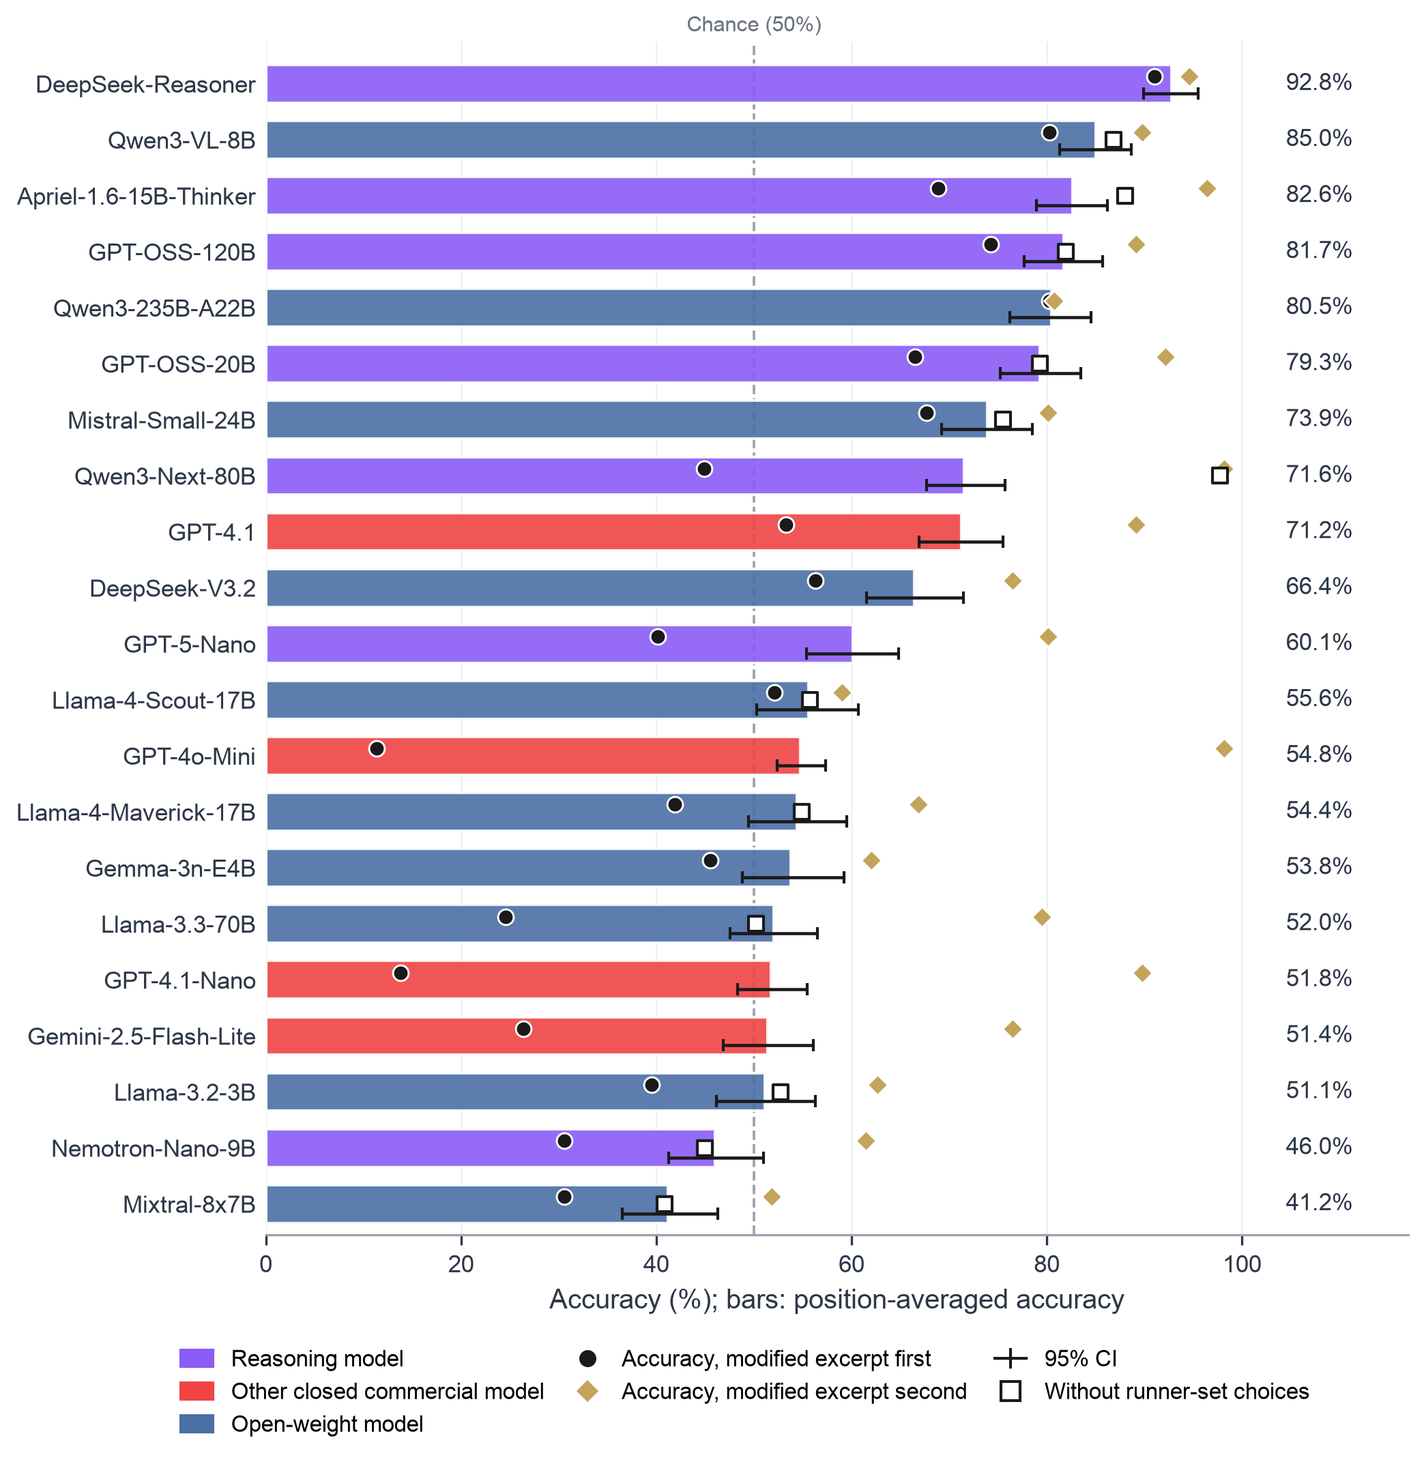
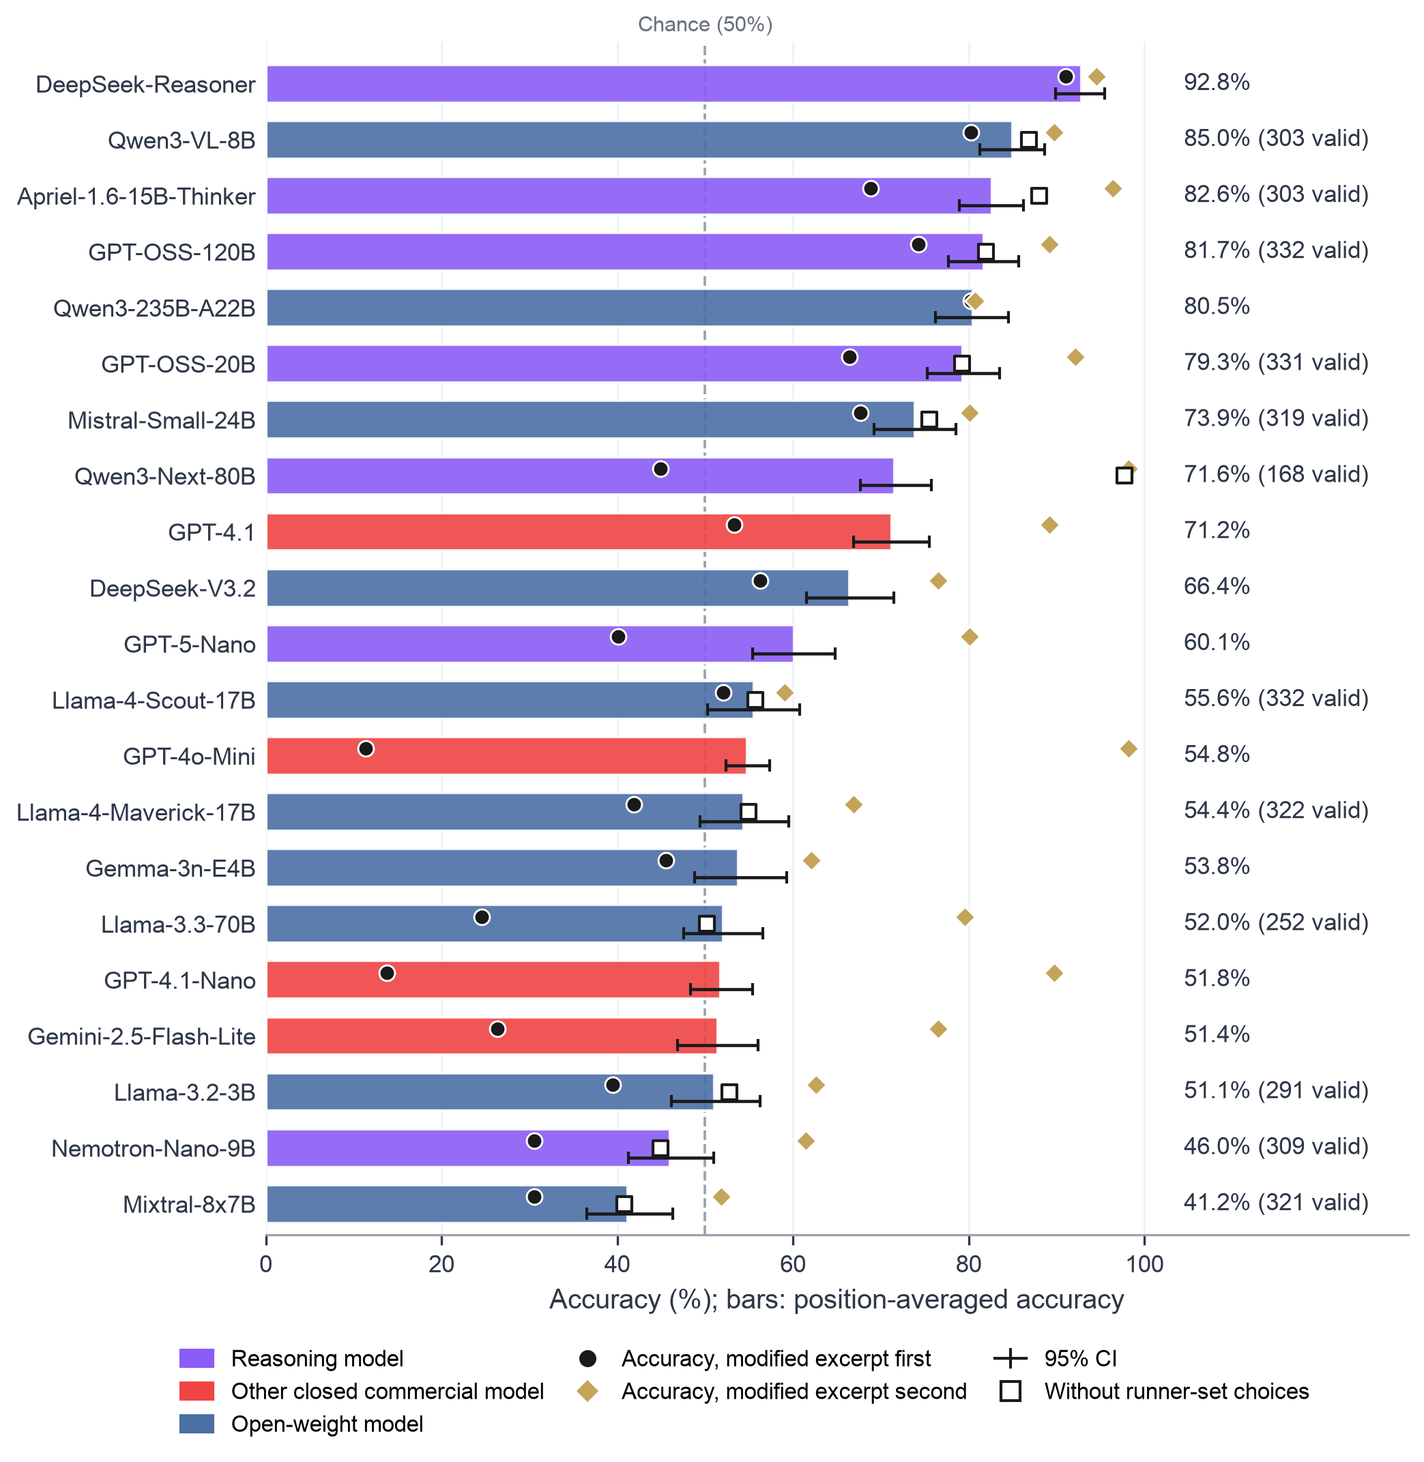
Add clinically evaluable subset without fabricated_citation, distinct excerpts, Figure 4 valid-reply labels and caveat, corrected data-file roles

diff --git a/r2/data_files_doc.py b/r2/data_files_doc.py
@@ -13,6 +13,15 @@ import subprocess
 
 from r2.paths import REPO
 
+def _evaluable_role(lead):
+    from r2.analysis.clinically_evaluable import TIERS
+    return (f"{lead} for {len(TIERS)} subsets of the 333 analyzed pairs defined by both physicians' answers: Q4, Q2 and "
+            "Q7 each; all three (clinically evaluable); the clinically evaluable pairs with Q3 Y or P, and with Q3 Y "
+            "(consensus where they disagreed); and the clinically evaluable pairs without the fabricated_citation "
+            "pairs (cue-confounded DOI), plus the number of distinct authentic excerpts per subset. A subset whose "
+            "records cover only one modified-excerpt position is marked not estimable. Post hoc")
+
+
 DIRS = ["data", "audit", "verification", "analysis_original", "analysis_repeated"]
 FILES = ["docs/r2/vignette_generation_prompt.md", "docs/r2/FREEZE_RECORD.md"]  # single tracked files outside DIRS
 OUT = REPO / "docs" / "DATA_FILES.md"
@@ -206,14 +215,16 @@ RULES = [
     (r"analysis_original/confidence_discriminable_excluding_coerced\.csv$", "`python -m r2.analysis.original_corrected` (`r2.analysis.confidence_original`)", "analysis of the original runs (confidence, R1 definitions)",
      lambda path: f"Per model ({_nrows(path)} models), the non-identical pairs without the records whose choice the original runner set to A (their confidence was written by the runner, 0.5, or belongs to an answer the runner replaced): the columns of `confidence_discriminable.csv`, with the per-model Mann-Whitney U, BH FDR and higher confidence when correct recomputed, plus n_runner_set_removed"),
     (r"analysis_original/per_model_discriminable_excluding_coerced\.csv$", "`python -m r2.analysis.original_corrected`", "analysis of the original runs (per model without runner-set choices)",
-     lambda path: f"Per model ({_nrows(path)} models), the non-identical pairs: evaluations, those whose choice the original runner set to A (n_runner_set), valid evaluations and their share, and position-averaged accuracy and accuracy by modified-excerpt position as recorded and without the runner-set records (`_valid`), with case-cluster bootstrap CIs and the valid n per position. The records left are the replies the runner could parse, a selected subset, not a random sample"),
-    (r"analysis_original/clinically_evaluable\.(json|csv)$", "`python -m r2.analysis.clinically_evaluable`",
+     lambda path: f"Per model ({_nrows(path)} models), the non-identical pairs: evaluations, those whose choice the original runner set to A (n_runner_set), valid evaluations and their share, and position-averaged accuracy and accuracy by modified-excerpt position as recorded and without the runner-set records (`_valid`), with case-cluster bootstrap CIs and the valid n per position. The records left are the replies with a valid A or B choice, a selected subset, not a random sample"),
+    (r"analysis_original/clinically_evaluable\.json$", "`python -m r2.analysis.clinically_evaluable`",
      "analysis of the original runs (clinically evaluable pairs; post hoc sensitivity analysis)",
-     "Pooled measures (accuracy, primacy, accuracy by modified-excerpt position, position-averaged accuracy, with "
-     "case-cluster bootstrap CIs, also without the runner-set records) for six subsets of the 333 analyzed pairs "
-     "defined by both physicians' answers: Q4, Q2 and Q7 each; all three (clinically evaluable); and the clinically "
-     "evaluable pairs with Q3 Y or P, and with Q3 Y (consensus where they disagreed). A subset whose records cover "
-     "only one modified-excerpt position is marked not estimable. Post hoc"),
+     lambda path: _evaluable_role("Pooled measures (accuracy, primacy, accuracy by modified-excerpt position, "
+                                  "position-averaged accuracy, with case-cluster bootstrap CIs, also without the "
+                                  "runner-set records)")),
+    (r"analysis_original/clinically_evaluable\.csv$", "`python -m r2.analysis.clinically_evaluable`",
+     "analysis of the original runs (clinically evaluable pairs; post hoc sensitivity analysis)",
+     lambda path: _evaluable_role("The tier counts and measures only (no case ids, no runner-set-excluded measures: "
+                                  "the JSON has them)")),
     (r"analysis_original/table1_examples\.csv$", "`python -m r2.analysis.original_corrected` (`table1_examples`)", "Table 1 (exclusion-only reanalysis)",
      lambda path: f"Example original responses, {_nrows(path)} rows: for each sham type with non-identical pairs, a failure and a success, each the first record in (case_id, model) order, among the records whose choice the runner did not coerce, whose model is not yet in the table (else the first in that order); the rationale cut at 300 characters; fabricated_citation rows marked cue-confounded. Rule: `r2/analysis/original_corrected.py` docstring"),
     (r"analysis_original/figures/legend_Figure\d\.md$", "`python -m r2.analysis.figures_original`", "Figures 2-4 (exclusion-only reanalysis)",

diff --git a/r2/analysis/clinically_evaluable.py b/r2/analysis/clinically_evaluable.py
@@ -6,6 +6,7 @@ excludes no pair from the primary analysis. Q3 is the shared answer where A.G. a
     python -m r2.analysis.clinically_evaluable
 """
 import json
+from pathlib import Path
 
 import pandas as pd
 
@@ -22,7 +23,15 @@ TIERS = (
                              "source (Q3 Y or P; consensus where the physicians disagreed)"),
     ("evaluable_concordant_full", "clinically evaluable, with the authentic excerpt fully concordant with its source "
                                   "(Q3 Y; consensus where the physicians disagreed)"),
+    ("evaluable_excluding_fabricated_citation", "clinically evaluable, without the fabricated_citation pairs, whose "
+                                                "modified excerpts carried a cue-confounded DOI"),
 )
+AUDIT_CSV = Path(__file__).resolve().parents[2] / "audit" / "pair_audit.csv"
+
+
+def load_excerpt_hashes(path=AUDIT_CSV):
+    """case_id -> hash of the authentic excerpt (T) from the pair audit."""
+    return pd.read_csv(path, dtype=str).set_index("case_id")["t_excerpt_hash"]
 
 
 def load_consensus(path=CONSENSUS_CSV):
@@ -51,16 +60,20 @@ def tier_case_ids(pairs, consensus):
     ids = {k: sorted(m[m].index) for k, m in masks.items()}
     ids["evaluable_concordant"] = sorted(q3[q3.isin(("Y", "P"))].index)
     ids["evaluable_concordant_full"] = sorted(q3[q3 == "Y"].index)
+    ids["evaluable_excluding_fabricated_citation"] = [c for c in ids["evaluable"]
+                                                      if pairs.loc[c, "sham_type"] != "fabricated_citation"]
     return ids
 
 
-def summarize(sub):
-    """Counts and, when both positions have a pair, the pooled measures with case-cluster bootstrap CIs."""
+def summarize(sub, hashes=None):
+    """Counts (with the distinct authentic excerpts when `hashes` maps case_id to excerpt hash) and, when both positions have a pair, the pooled measures with case-cluster bootstrap CIs."""
     n_first = int(sub[sub.sham_first].case_id.nunique())
     n_second = int(sub[~sub.sham_first].case_id.nunique())
     out = {"n_pairs": int(sub.case_id.nunique()), "n": int(len(sub)), "n_pairs_sham_first": n_first,
            "n_pairs_sham_second": n_second, "n_coerced": int(sub.coerced.sum()),
            "estimable": bool(n_first and n_second)}
+    if hashes is not None:
+        out["n_distinct_authentic_excerpts"] = int(hashes.reindex(sub.case_id.unique()).nunique())
     if out["estimable"]:
         out.update({k: float(v) for k, v in oc._measures(sub).items()})
         out["primacy"] = float(sub.selected_first.mean())
@@ -75,13 +88,14 @@ def summarize(sub):
     return out
 
 
-def run(write=True, pairs=None, consensus=None):
+def run(write=True, pairs=None, consensus=None, hashes=None):
     pairs = load_pairs() if pairs is None else pairs
     consensus = load_consensus() if consensus is None else consensus
     df = oc.original_frame()
     disc = df[df.visible_status != "identical"]
     if set(disc.case_id) != set(pairs.index):
         raise ValueError("the physician-review pairs differ from the analysis set")
+    hashes = load_excerpt_hashes() if hashes is None else hashes
     ids = tier_case_ids(pairs, consensus)
     ev = pairs[evaluable_mask(pairs)]
     d = discordant_q3(pairs)
@@ -90,7 +104,7 @@ def run(write=True, pairs=None, consensus=None):
     out = {"label": "post hoc; exploratory",
            "note": "Restricts the 333 analyzed pairs by the round-1 physician review; the primary analysis is "
                    "unchanged and the review excludes no pair.",
-           "tiers": {name: {"definition": desc, **summarize(disc[disc.case_id.isin(ids[name])]),
+           "tiers": {name: {"definition": desc, **summarize(disc[disc.case_id.isin(ids[name])], hashes),
                             "case_ids": ids[name]} for name, desc in TIERS},
            "q3_consensus": {"n_evaluable": int(len(ev)), "n_agreed": int(len(agreed)), "n_discordant": int(len(d)),
                             "agreed": {v: int((agreed == v).sum()) for v in Q3_VALUES},

diff --git a/tests/r2/test_figures.py b/tests/r2/test_figures.py
@@ -139,3 +139,38 @@ def test_figure4_open_squares_only_for_models_with_runner_set_records():
     fig = F.draw_figure4(per_model, load_specs(), without_runner_set=wr)
     squares = [c for c in fig.axes[0].collections if getattr(c, "get_label", lambda: "")() == "without_runner_set"]
     assert len(squares) == 1 and len(squares[0].get_offsets()) == 12
+
+
+def test_figure4_labels_give_valid_replies_for_runner_set_models_and_do_not_clip():
+    import matplotlib
+    matplotlib.use("Agg")
+    from r2.analysis import figures as F
+    from r2.analysis import figures_original as FO
+    from r2.run.harness import load_specs
+    head, per_model, per_type, by_profile, wr = FO.load()
+    fig = F.draw_figure4(per_model, load_specs(), without_runner_set=wr)
+    texts = [t.get_text() for t in fig.axes[0].texts]
+    labelled = [t for t in texts if "valid)" in t]
+    assert len(labelled) == 12 and all(t.endswith(" valid)") for t in labelled)
+    n_valid = {int(float(r["n_valid"])) for r in wr if int(float(r["n_runner_set"])) > 0}
+    assert {int(t.split("(")[1].split()[0]) for t in labelled} == n_valid
+    assert sum(t.endswith("%") for t in texts) == len(per_model) - 12
+    fig.canvas.draw()
+    ax_box = fig.axes[0].get_window_extent()
+    for t in fig.axes[0].texts:
+        assert t.get_window_extent().x1 <= fig.bbox.x1
+
+
+def test_squares_sentence_is_computed_and_states_the_conditional_caveat():
+    from r2.analysis import figures_original as FO
+    head, per_model, per_type, by_profile, wr = FO.load()
+    s = FO._squares_sentence(wr)
+    rows = [r for r in wr if int(float(r["n_runner_set"])) > 0]
+    top = max(rows, key=lambda r: int(float(r["n_runner_set"])))
+    assert s.startswith("Open squares: position-averaged accuracy among only the evaluations with a valid A or B reply, "
+                        f"for the {len(rows)} models whose choice the original runner set to A in some evaluations; "
+                        "the label gives each one's valid replies (Supplementary Table S9, Part D). ")
+    assert f"these were {int(float(top['n_valid']))} of its {int(float(top['n']))} evaluations." in s
+    assert s.endswith("The squares are conditional on a valid reply, a selected subset rather than a random sample; "
+                      "they are not the models' overall accuracy and do not rank the models. ")
+    assert FO._squares_sentence(None) == ""

diff --git a/tests/r2/test_clinically_evaluable.py b/tests/r2/test_clinically_evaluable.py
@@ -15,7 +15,8 @@ def test_tiers_with_fixture_consensus():
     ids = ce.tier_case_ids(p, _consensus("MO"))
     sizes = {k: len(v) for k, v in ids.items()}
     assert sizes == {"q4_relevant": 85, "q2_answerable": 141, "q7_trust_reducing": 150, "evaluable": 25,
-                     "evaluable_concordant": 24, "evaluable_concordant_full": 16}
+                     "evaluable_concordant": 24, "evaluable_concordant_full": 16,
+                     "evaluable_excluding_fabricated_citation": 21}
 
 
 def test_run_reproduces_known_subset_estimates():
@@ -65,3 +66,32 @@ def test_summarize_empty_frame():
     from r2.analysis import original_corrected as oc
     s = ce.summarize(oc.original_frame().iloc[0:0])
     assert s["n_pairs"] == 0 and s["estimable"] is False
+
+
+def test_new_tier_is_last_and_drops_only_fabricated_citation_pairs():
+    assert ce.TIERS[-1][0] == "evaluable_excluding_fabricated_citation"
+    p = ev.load_pairs()
+    ids = ce.tier_case_ids(p, _consensus("MO"))
+    drop = set(ids["evaluable"]) - set(ids["evaluable_excluding_fabricated_citation"])
+    assert drop and set(p.loc[sorted(drop), "sham_type"]) == {"fabricated_citation"}
+    assert not (set(p.loc[ids["evaluable_excluding_fabricated_citation"], "sham_type"]) & {"fabricated_citation"})
+
+
+def test_new_tier_values_and_distinct_authentic_excerpts():
+    out = ce.run(write=False, consensus=_consensus("MO"))
+    t = out["tiers"]["evaluable_excluding_fabricated_citation"]
+    assert (t["n_pairs"], t["estimable"]) == (21, True)
+    assert out["tiers"]["evaluable"]["n_distinct_authentic_excerpts"] == 19
+    for name, _ in ce.TIERS:
+        assert 1 <= out["tiers"][name]["n_distinct_authentic_excerpts"] <= out["tiers"][name]["n_pairs"]
+
+
+def test_distinct_excerpts_counted_from_the_audit_hash():
+    from r2.analysis import original_corrected as oc
+    sub = oc.original_frame().head(0)
+    assert ce.summarize(sub, hashes=pd.Series(dtype=str))["n_distinct_authentic_excerpts"] == 0
+    df = oc.original_frame()
+    df = df[df.visible_status != "identical"]
+    ids = sorted(df.case_id.unique())[:3]
+    h = pd.Series({ids[0]: "x", ids[1]: "x", ids[2]: "y"})
+    assert ce.summarize(df[df.case_id.isin(ids)], hashes=h)["n_distinct_authentic_excerpts"] == 2

diff --git a/r2/analysis/figures.py b/r2/analysis/figures.py
@@ -372,6 +372,9 @@ def figure4(head, per_model, out_dir, specs):
         return _save(fig, out_dir, "Figure4", legend4(head), head.get("synthetic") is True)
 
 
+XLIM_FIG4 = 130  # room for the right-hand label "100.0% (333 valid)"
+
+
 def draw_figure4(per_model, specs, closed_label="Closed commercial model", without_runner_set=None):
     """The Figure 4 bars (call inside plt.rc_context(STYLE)); per_model rows need paa_lo and paa_hi. A closed
     commercial reasoning model is drawn as a reasoning model; `closed_label` names the closed-commercial key."""
@@ -401,11 +404,14 @@ def draw_figure4(per_model, specs, closed_label="Closed commercial model", witho
             xs, ys = zip(*pts)
             ax.scatter(xs, ys, marker="s", s=30, facecolor="white", edgecolor=INK, linewidth=1.0, zorder=5,
                        label="without_runner_set")
-    for yy, v in zip(y, paa):
-        ax.text(104.5, yy, f"{v:.1f}%", va="center", ha="left", fontsize=8.5, color=C["text"])
+    n_valid = ({r["model"]: int(float(r["n_valid"])) for r in without_runner_set
+                if int(float(r["n_runner_set"])) > 0} if without_runner_set is not None else {})
+    for yy, v, r in zip(y, paa, pm):
+        label = f"{v:.1f}%" + (f" ({n_valid[r['model']]} valid)" if r["model"] in n_valid else "")
+        ax.text(104.5, yy, label, va="center", ha="left", fontsize=8.5, color=C["text"])
     ax.set_yticks(y, [display_name(r["model"]) for r in pm])
     ax.set_ylim(len(pm) - 0.45, -0.75)
-    ax.set_xlim(0, 117)
+    ax.set_xlim(0, XLIM_FIG4 if without_runner_set is not None else 117)
     ax.set_xticks(range(0, 101, 20))
     ax.set_xlabel("Accuracy (%); bars: position-averaged accuracy")
     ax.tick_params(axis="y", length=0)

diff --git a/r2/analysis/figures_original.py b/r2/analysis/figures_original.py
@@ -155,10 +155,12 @@ def _squares_sentence(without_runner_set):
         return ""
     rows = [r for r in without_runner_set if int(float(r["n_runner_set"])) > 0]
     top = max(rows, key=lambda r: int(float(r["n_runner_set"])))
-    return (f"Open squares: position-averaged accuracy without the evaluations whose choice the original runner set "
-            f"to A, for the {len(rows)} models with any (Supplementary Table S9, Part D); for "
-            f"{F.display_name(top['model'])}, these were {int(float(top['n_runner_set']))} of its "
-            f"{int(float(top['n']))} evaluations. ")
+    return (f"Open squares: position-averaged accuracy among only the evaluations with a valid A or B reply, for the "
+            f"{len(rows)} models whose choice the original runner set to A in some evaluations; the label gives each "
+            f"one's valid replies (Supplementary Table S9, Part D). For {F.display_name(top['model'])}, these were "
+            f"{int(float(top['n_valid']))} of its {int(float(top['n']))} evaluations. The squares are conditional on a "
+            f"valid reply, a selected subset rather than a random sample; they are not the models' overall accuracy "
+            f"and do not rank the models. ")
 
 
 def legend4(head, per_model, specs, without_runner_set=None):

diff --git a/tests/r2/test_data_files.py b/tests/r2/test_data_files.py
@@ -269,3 +269,22 @@ def test_release_allowlist_roles_carry_no_stale_terms():
         if found:
             hits[p] = found
     assert not hits, hits
+
+
+def test_clinically_evaluable_roles_are_split_and_count_the_tiers():
+    from r2.analysis.clinically_evaluable import TIERS
+    rules = [r for r in D.RULES if r[0].startswith("analysis_original/clinically_evaluable")]
+    assert len(rules) == 2
+    js, cs = (r[3]("x") for r in rules)
+    assert "also without the runner-set records" in js and "also without the runner-set records" not in cs
+    assert "tier counts and measures only" in cs
+    for text in (js, cs):
+        assert f"for {len(TIERS)} subsets" in text and "six" not in text
+        assert "fabricated_citation" in text and "distinct authentic excerpts" in text
+
+
+def test_per_model_role_says_valid_a_or_b_choice():
+    rule = next(r for r in D.RULES if "per_model_discriminable_excluding_coerced" in r[0])
+    text = rule[3]("analysis_original/per_model_discriminable_excluding_coerced.csv")
+    assert "The records left are the replies with a valid A or B choice" in text
+    assert "the runner could parse" not in text

diff --git a/analysis_original/figures/legend_Figure4.md b/analysis_original/figures/legend_Figure4.md
@@ -1,1 +1,1 @@
-**Figure 4 | Position-averaged accuracy by model in the original evaluations of the non-identical pairs.** Bars: position-averaged accuracy, the mean of the accuracy with the modified excerpt shown first and with it shown second; whiskers: 95% CI. Circles: accuracy with the modified excerpt first; diamonds: accuracy with the modified excerpt second. Open squares: position-averaged accuracy without the evaluations whose choice the original runner set to A, for the 12 models with any (Supplementary Table S9, Part D); for Qwen3-Next-80B, these were 165 of its 333 evaluations. Each model saw each pair once, in one order; within a model, the two accuracies (circle and diamond) come from different pairs. Bar color: reasoning model (including GPT-5-Nano, a closed commercial reasoning model), other closed commercial model or open-weight model. Models are ordered by position-averaged accuracy; the dashed line marks 50% (chance). Each model: 333 evaluations, one per pair. Analysis set: the original evaluations of the 333 pairs whose authentic and modified excerpts differ in content visible to the models (n = 6,993 evaluations, 21 models, one evaluation per model and pair). Excluded: the 167 pairs whose two excerpts were identical as presented (3,507 evaluations). The 413 evaluations of this set whose choice the original runner set to A are included (a sensitivity analysis excludes them). 95% CIs: case-cluster bootstrap over vignettes (2,000 resamples).
+**Figure 4 | Position-averaged accuracy by model in the original evaluations of the non-identical pairs.** Bars: position-averaged accuracy, the mean of the accuracy with the modified excerpt shown first and with it shown second; whiskers: 95% CI. Circles: accuracy with the modified excerpt first; diamonds: accuracy with the modified excerpt second. Open squares: position-averaged accuracy among only the evaluations with a valid A or B reply, for the 12 models whose choice the original runner set to A in some evaluations; the label gives each one's valid replies (Supplementary Table S9, Part D). For Qwen3-Next-80B, these were 168 of its 333 evaluations. The squares are conditional on a valid reply, a selected subset rather than a random sample; they are not the models' overall accuracy and do not rank the models. Each model saw each pair once, in one order; within a model, the two accuracies (circle and diamond) come from different pairs. Bar color: reasoning model (including GPT-5-Nano, a closed commercial reasoning model), other closed commercial model or open-weight model. Models are ordered by position-averaged accuracy; the dashed line marks 50% (chance). Each model: 333 evaluations, one per pair. Analysis set: the original evaluations of the 333 pairs whose authentic and modified excerpts differ in content visible to the models (n = 6,993 evaluations, 21 models, one evaluation per model and pair). Excluded: the 167 pairs whose two excerpts were identical as presented (3,507 evaluations). The 413 evaluations of this set whose choice the original runner set to A are included (a sensitivity analysis excludes them). 95% CIs: case-cluster bootstrap over vignettes (2,000 resamples).
